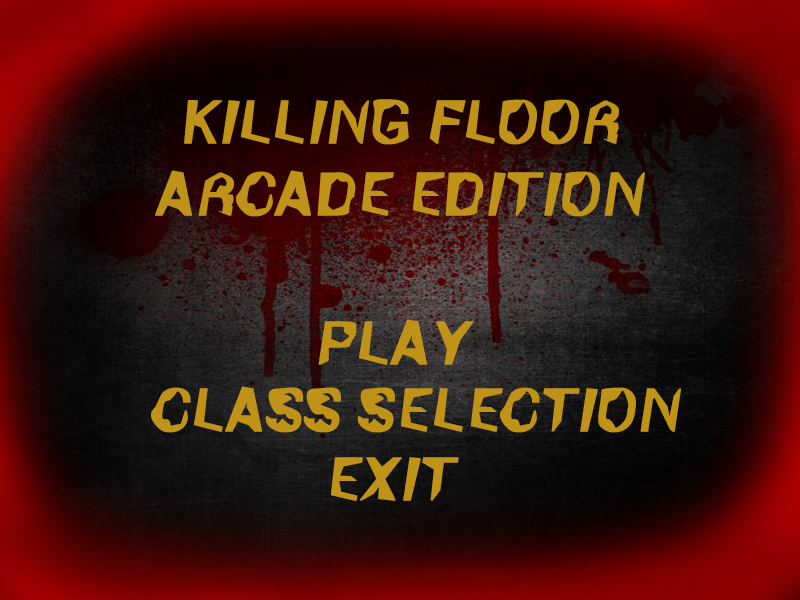
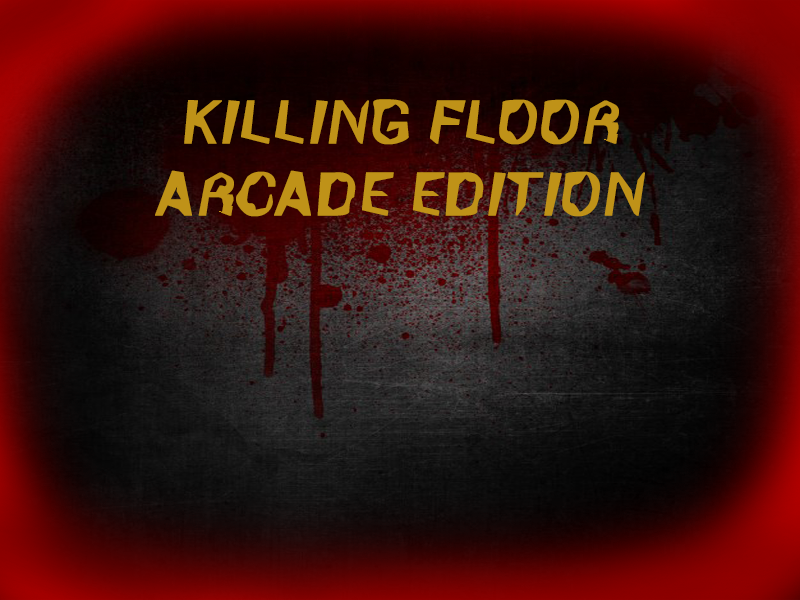
los menus empiezan a formarse

Changed region(s): [[0.1875, 0.51, 0.875, 0.72], [0.4062, 0.75, 0.5938, 0.84]]

diff --git a/src/js/main.js b/src/js/main.js
@@ -1,8 +1,8 @@
 'use strict';
 
 var PlayScene = require('./play_scene.js');
-var MainMenu = require('./MainMenu.js');
-
+var Menu = require('./MainMenu.js');
+var botonera = require('./botonera.js');
 var BootScene = {
   preload: function () {
     // aqui se ponen los recursos, imagenes y sonido
@@ -25,10 +25,21 @@ var PreloaderScene = {
     // TODO: load here the assets for the game
     
     //images
-    /*this.game.load.image('prueba', '../assets/images/prueba.jpg');
-    this.game.load.image('menuPrincipal','../assets/images/menu.png');
-    this.game.load.image('gameover','../assets/images/gameover.png');
+    this.game.load.image('prueba', '../assets/images/prueba.jpg');
+    this.game.load.image('menu','./assets/images/menu.png');
     this.game.load.image('submenu','../assets/images/submenu.png');
+    this.game.load.image('gameover','../assets/images/gameover.png');
+      //botones
+      this.game.load.image('playbutton', './assets/images/playbutton.png');
+      this.game.load.image('classbutton','../assets/images/classbutton.png');
+      this.game.load.image('soldadobutton','../assets/images/soldadobutton.png');
+      this.game.load.image('medicobutton','../assets/images/medicobutton.png');
+      this.game.load.image('exitbutton','../assets/images/exitbutton.png');
+      this.game.load.image('berserkerbutton','../assets/images/berserkerbutton.png');
+      this.game.load.image('againbutton','../assets/images/againbutton.png');
+      //muñecos
+      this.game.load.image('zombi','../assets/images/zombi.png');
+      this.game.load.image('zombiBoy','../assets/images/zombiBoy.png');
     //music
     this.game.load.audio('musicaFondo','../assets/sounds/Pentagram.mp3');
     this.game.load.audio('musicaAccion','../assets/sounds/HeavyAction.mp3');
@@ -37,25 +48,46 @@ var PreloaderScene = {
     this.game.load.audio('Zdolor','../assets/sounds/zombidolor.mp3');
     this.game.load.audio('shotgun1','../assets/sounds/shotgun.wav');
     this.game.load.audio('shotgun2','../assets/sounds/shotgun+Reload.wav');
-    this.game.load.audio('Pdolor','../assets/sounds/pain.wav');*/
-
+    this.game.load.audio('Pdolor','../assets/sounds/pain.wav');
+    
   },
 
   create: function () {
     //this.game.state.start('play');
-    this.game.state.start('menu');//esto lleva al js main menu
+    this.game.state.start('botonera');
   }
 };
+/*var Menu = {
+  preload: function(){
+    this.game.load.image('menu','./assets/images/menu.png');
+    this.game.load.audio('musicaFondo','../assets/sounds/ZombieRock.mp3');
+    //this.game.load.image('playbutton','../assets/images/playbutton.png');
+  },
+  
+  create: function() {
+   var fondo = this.game.add.sprite(this.game.world.centerX, this.game.world.centerY, 'menu');
+   this.game.add.audio('musicaFondo').loopFull(1);
+   //fondo.anchor.setTo(0.5, 0.5);
+   //var playbutton = new Button(game, 400, 300,'playbutton', actionOnClick, this,0,0,0,0);
+   game.add.button(400, 300, 'playbutton', actionOnClick, this, 2, 1, 0);
+   
+  },
 
+};
+function actionOnClick () {
 
-
+    console.log('button clicked');
+    game.state.start('play');
+  };
+*/
 window.onload = function () {
   var game = new Phaser.Game(800, 600, Phaser.AUTO, 'game');
 
   game.state.add('boot', BootScene);
   game.state.add('preloader', PreloaderScene);
   game.state.add('play', PlayScene);
-  game.state.add('menu',MainMenu);
+  game.state.add('menu',Menu);
+  game.state.add('botonera',botonera);
 
   game.state.start('boot');
 };

diff --git a/src/js/botonera.js b/src/js/botonera.js
@@ -1,0 +1,49 @@
+'use strict'
+var botonera = {
+//var game = new Phaser.Game(800, 600, Phaser.AUTO, 'phaser-example', { preload: preload, create: create });
+//var game = new Phaser.Game(800, 600, Phaser.AUTO, 'game');
+preload: function() {
+
+    
+    
+},
+
+
+
+create: function() {
+    var playbutton;
+    var classbutton;
+    var background;
+    this.game.stage.backgroundColor = '#182d3b';
+
+    this.background = this.game.add.image(0, 0, 'menu');
+
+    playbutton = this.game.add.button(318, 319, 'playbutton', this.actionOnClick, this/*, 2, 1, 0*/);
+    classbutton = this.game.add.button(150,375,'classbutton',this.actionOnClick2,this);
+    
+    /*button.onInputOver.add(over, this);
+    button.onInputOut.add(out, this);
+    button.onInputUp.add(up, this);*/
+
+},
+actionOnClick: function() {
+    this.background.visible =! this.background.visible;
+},
+actionOnClick2: function(){
+    this.background.visible =! this.background.visible;
+},
+    
+};
+/*function up() {
+    console.log('button up', arguments);
+}
+
+function over() {
+    console.log('button over');
+}
+
+function out() {
+    console.log('button out');
+}*/
+
+module.exports = botonera;

diff --git a/src/js/MainMenu.js b/src/js/MainMenu.js
@@ -1,25 +1,26 @@
-'use strict';
-var PlayScene = require('./play_scene.js');
+'use strict'
+//var PlayScene = require('./play_scene.js');
+
 var Menu = {
 	preload: function(){
     this.game.load.image('menu','./assets/images/menu.png');
-    this.game.load.audio('musicaFondo','../assets/sounds/ZombieRock.mp3');
+    var ZombieRock = this.game.load.audio('musicaFondo','../assets/sounds/ZombieRock.mp3');
     this.game.load.image('playbutton','../assets/images/playbutton.png');
   },
   
   create: function() {
    var fondo = this.game.add.sprite(this.game.world.centerX, this.game.world.centerY, 'menu');
-   this.game.add.audio('musicaFondo').loopFull(1);
+   this.game.add.audio('musicaFondo'/*ZombieRock*/).loopFull(1);
    fondo.anchor.setTo(0.5, 0.5);
-   var playbutton = new Button(game, 400, 300,'playbutton', actionOnClick,/* this,0,0,0,0*/);
-   playbutton.anchor.setTo(0.5,0.3);
+   //var playbutton = new Button(game, 400, 300,'playbutton', actionOnClick,/* this,0,0,0,0);
+   
   },
-  function actionOnClick () {
+  /*function actionOnClick () {
 
     console.log('button clicked');
     game.state.start('play');
 
-}
+}*/
   
    	
    
